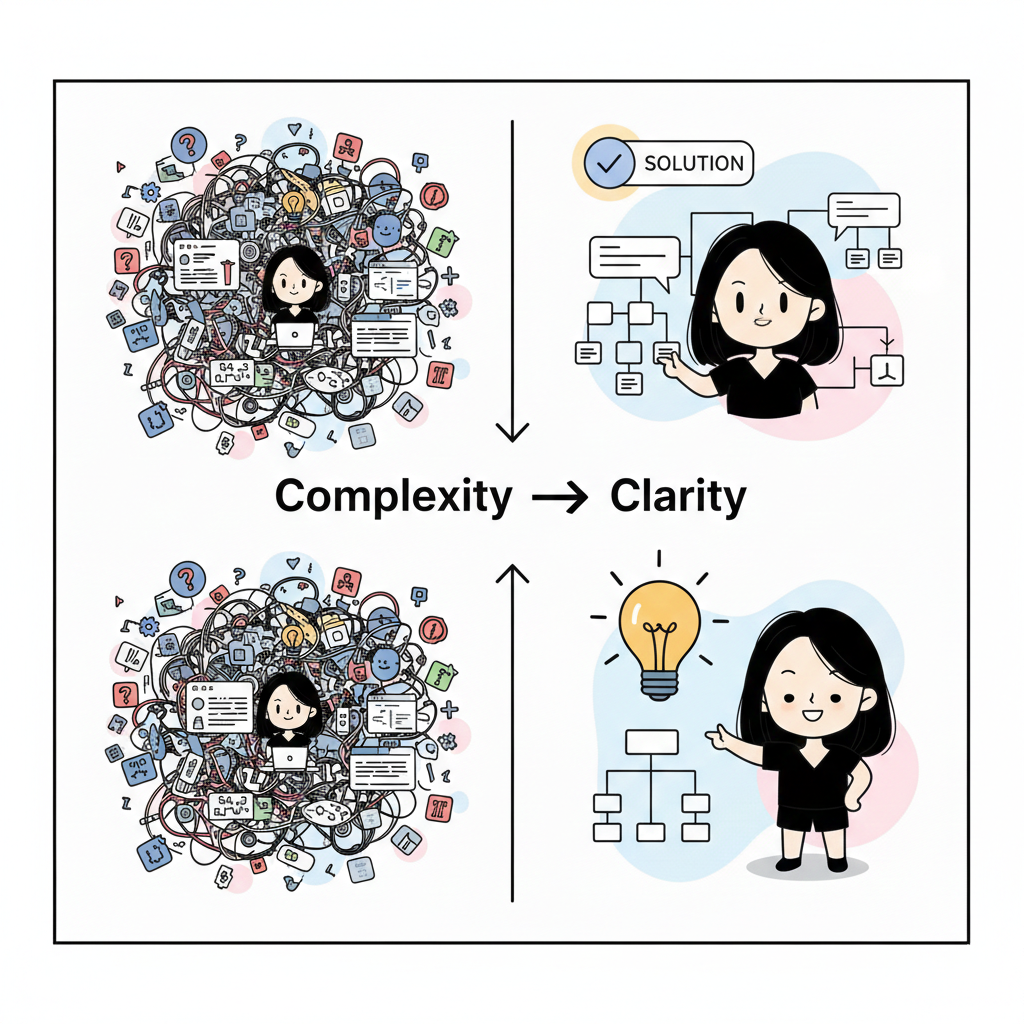
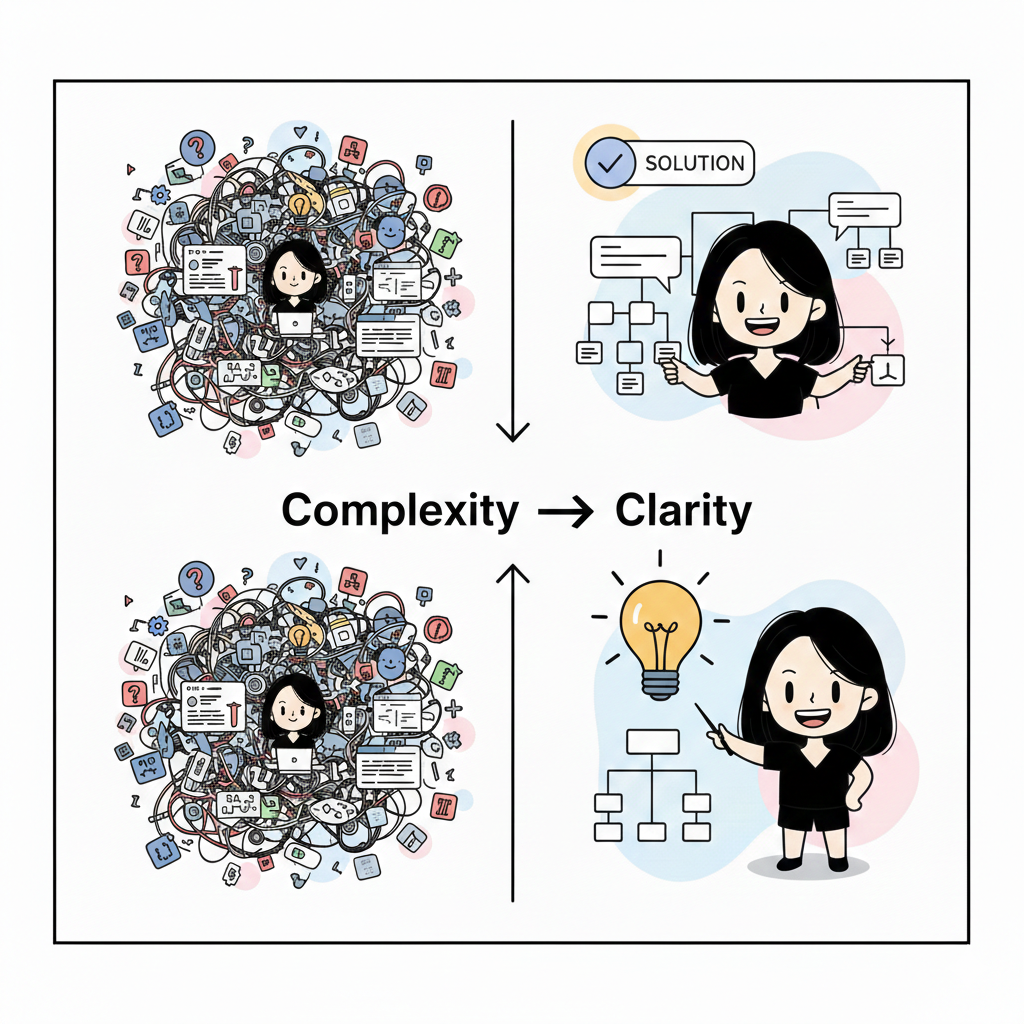
Add Gemini-generated illustrations for skills and updates
- Replaced skill icons with custom illustrations:
  - Fast Learner
  - Complexity to Clarity
  - End-to-End Builder
- Added Photography illustration to Recent Updates
- Adjusted image container styles for better display

diff --git a/src/components/TopSkillsShowcase.tsx b/src/components/TopSkillsShowcase.tsx
@@ -32,27 +32,27 @@ const clarityPrinciples = [
 // Skill 2: Fast Learner
 const learningExamples = [
   {
-    title: "LLM Engineering",
-    description: "Self-taught prompt design, schema constraints, and AI agents from scratch",
+    title: "AI Tools Mastery",
+    description: "Learned Figma, Pencil, n8n and various AI-powered design & automation tools",
+    icon: "🎨",
+  },
+  {
+    title: "LLM Evaluation",
+    description: "Tested Claude, GPT-4, Gemini, DeepSeek — understanding each model's strengths and weaknesses",
     icon: "🤖",
   },
   {
-    title: "VectorPaths Full Stack",
-    description: "Independently built everything from database design to frontend interactions",
+    title: "Full-Stack in 1 Month",
+    description: "Learned frontend, backend, testing, and deployment from scratch",
     icon: "💻",
-  },
-  {
-    title: "Vibe Coding",
-    description: "Quickly adapted to AI-assisted development workflows",
-    icon: "🎵",
   },
 ];
 
 const learningTimeline = [
-  { period: "2025 Q1", event: "Started exploring LLMs, learning prompt engineering" },
-  { period: "2025 Q2", event: "Mastered LangChain, Schema constraints" },
-  { period: "2025 Q3", event: "Deep dive into AI Agents, automated extraction of 3000+ questions" },
-  { period: "2025 Q4", event: "Exploring Vibe Coding, n8n workflows, agentic systems" },
+  { period: "Month 1", event: "Explored AI tools: Figma, Pencil; Started comparing different LLMs" },
+  { period: "Month 2", event: "Designed complete VectorPaths system architecture" },
+  { period: "Month 3-4", event: "Learned full-stack development: React, Node.js, PostgreSQL, CI/CD" },
+  { period: "Now", event: "Building n8n workflows and iterating on VectorPaths" },
 ];
 
 // Skill 3: End-to-End Builder
@@ -100,12 +100,12 @@ export default function TopSkillsShowcase() {
               viewport={{ once: true }}
             >
               <div className="flex items-center gap-4 mb-6">
-                <div className="w-20 h-20 bg-[#ffe135] rounded-full border-4 border-[#1a1a1a] shadow-[4px_4px_0_#1a1a1a] flex items-center justify-center">
+                <div className="w-24 h-24 bg-[#ffe135]/20 rounded-2xl border-2 border-[#1a1a1a] shadow-[3px_3px_0_#1a1a1a] flex items-center justify-center overflow-hidden">
                   <Image
                     src="/skills/fast-learner.png"
                     alt="Fast Learner"
-                    width={60}
-                    height={60}
+                    width={90}
+                    height={90}
                     className="object-contain"
                   />
                 </div>
@@ -120,7 +120,7 @@ export default function TopSkillsShowcase() {
               </div>
 
               <p className="text-lg text-gray-600 mb-6 leading-relaxed">
-                I pick up new tools and concepts quickly, adapting to ambiguous environments with ease.
+                Designed a complete system in one month. Learned full-stack development in another. I immerse myself in tools to truly understand them.
               </p>
 
               {/* Philosophy Quote */}
@@ -131,9 +131,9 @@ export default function TopSkillsShowcase() {
                 className="p-4 bg-[#ffe135]/30 border-2 border-[#1a1a1a] rounded-xl shadow-[3px_3px_0_#1a1a1a] mb-6"
               >
                 <p className="text-sm text-gray-700">
-                  <strong>Not &quot;learn then do&quot; — but &quot;learn by doing&quot;.</strong>
+                  <strong>Not just reading docs — but hands-on testing everything.</strong>
                   <br />
-                  When I encounter new tech, I find a real problem to solve, then learn the skills I need along the way.
+                  I tested multiple LLMs to know when to use each. I learned full-stack by building, not by watching tutorials.
                 </p>
               </motion.div>
 
@@ -209,12 +209,12 @@ export default function TopSkillsShowcase() {
               viewport={{ once: true }}
             >
               <div className="flex items-center gap-4 mb-6">
-                <div className="w-20 h-20 bg-[#87ceeb] rounded-full border-4 border-[#1a1a1a] shadow-[4px_4px_0_#1a1a1a] flex items-center justify-center">
+                <div className="w-24 h-24 bg-[#87ceeb]/20 rounded-2xl border-2 border-[#1a1a1a] shadow-[3px_3px_0_#1a1a1a] flex items-center justify-center overflow-hidden">
                   <Image
                     src="/skills/clarity.png"
                     alt="Complexity to Clarity"
-                    width={60}
-                    height={60}
+                    width={90}
+                    height={90}
                     className="object-contain"
                   />
                 </div>
@@ -306,12 +306,12 @@ export default function TopSkillsShowcase() {
               viewport={{ once: true }}
             >
               <div className="flex items-center gap-4 mb-6">
-                <div className="w-20 h-20 bg-[#ff6b9d] rounded-full border-4 border-[#1a1a1a] shadow-[4px_4px_0_#1a1a1a] flex items-center justify-center">
+                <div className="w-24 h-24 bg-[#ff6b9d]/20 rounded-2xl border-2 border-[#1a1a1a] shadow-[3px_3px_0_#1a1a1a] flex items-center justify-center overflow-hidden">
                   <Image
                     src="/skills/end-to-end.png"
                     alt="End-to-End Builder"
-                    width={60}
-                    height={60}
+                    width={90}
+                    height={90}
                     className="object-contain"
                   />
                 </div>
@@ -355,7 +355,7 @@ export default function TopSkillsShowcase() {
                 className="p-4 bg-[#ff6b9d]/10 border-2 border-[#1a1a1a] rounded-xl shadow-[2px_2px_0_#1a1a1a]"
               >
                 <p className="text-sm text-gray-700">
-                  真正的问题往往出现在<strong>交接的地方</strong>——设计和开发之间、前端和后端之间。当你能从头到尾负责整个项目时，你会看到这些缝隙，然后你会去修补它们。
+                  Real problems often emerge at <strong>the handoffs</strong> — between design and development, between frontend and backend. When you own the entire project end-to-end, you see these gaps, and you fix them.
                 </p>
               </motion.div>
             </motion.div>

diff --git a/src/components/RecentUpdates.tsx b/src/components/RecentUpdates.tsx
@@ -1,12 +1,14 @@
 "use client";
 
 import { motion } from "framer-motion";
+import Image from "next/image";
 
 interface Update {
   label: string;
   content: string;
   description?: string;
   color: string;
+  image?: string;
 }
 
 const updates: Update[] = [
@@ -27,6 +29,7 @@ const updates: Update[] = [
     content: "Photography",
     description: "Helping others capture moments",
     color: "#87ceeb",
+    image: "/skills/photography.png",
   },
 ];
 
@@ -57,13 +60,25 @@ export default function RecentUpdates() {
             whileHover={{ y: -4 }}
             className="p-6 bg-white border-2 border-[#1a1a1a] rounded-xl shadow-[4px_4px_0_#1a1a1a] hover:shadow-[2px_2px_0_#1a1a1a] hover:translate-x-[2px] hover:translate-y-[2px] transition-all"
           >
-            {/* Number Badge */}
-            <span
-              className="inline-block w-8 h-8 border-2 border-[#1a1a1a] rounded-lg mb-4 text-center leading-7 font-bold text-sm"
-              style={{ backgroundColor: update.color, color: update.color === "#ff6b9d" ? "white" : "#1a1a1a" }}
-            >
-              {String(index + 1).padStart(2, "0")}
-            </span>
+            {/* Image or Number Badge */}
+            {update.image ? (
+              <div className="w-16 h-16 mb-4 relative">
+                <Image
+                  src={update.image}
+                  alt={update.content}
+                  width={64}
+                  height={64}
+                  className="object-contain"
+                />
+              </div>
+            ) : (
+              <span
+                className="inline-block w-8 h-8 border-2 border-[#1a1a1a] rounded-lg mb-4 text-center leading-7 font-bold text-sm"
+                style={{ backgroundColor: update.color, color: update.color === "#ff6b9d" ? "white" : "#1a1a1a" }}
+              >
+                {String(index + 1).padStart(2, "0")}
+              </span>
+            )}
 
             {/* Label */}
             <p className="text-xs font-medium text-gray-500 uppercase tracking-wider mb-1">
